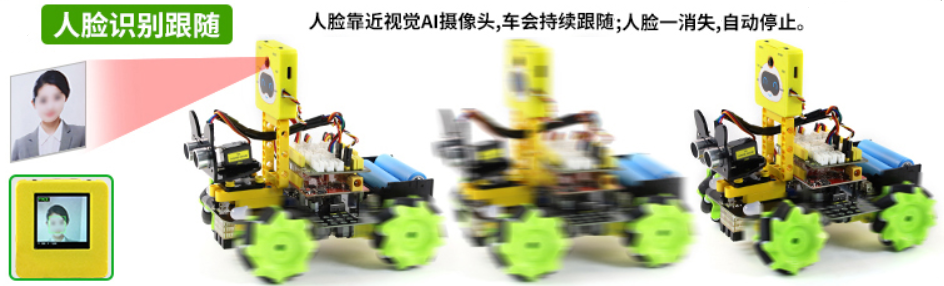
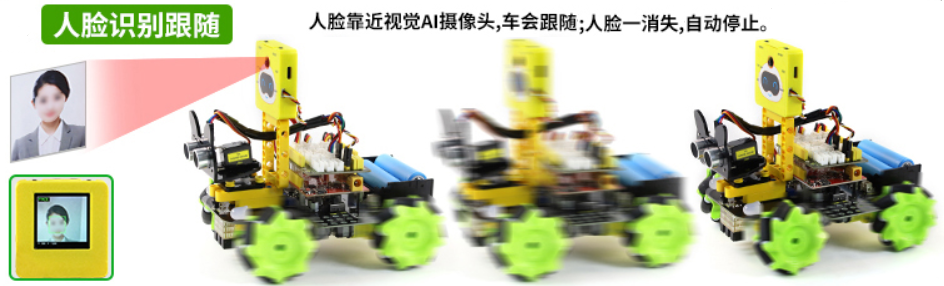
V00-2026-09-22

Changed region(s): [[0.553, 0.028, 0.8602, 0.1119]]

diff --git a/docs/4.视觉AI摄像头控制4WD麦克纳姆轮小车/4.4Mixly教程/2.二维码识别.md b/docs/4.视觉AI摄像头控制4WD麦克纳姆轮小车/4.4Mixly教程/2.二维码识别.md
@@ -47,7 +47,7 @@
 
 #### 2.6 代码说明
 
-![](../../media/P024.png)
+![](../../media/PP24.png)
 
 - 定义视觉AI摄像头模块的引脚TX接A4、RX接A5，设置波特率为9600；
 
@@ -59,27 +59,27 @@
 
 - 在无限循环中读取视觉AI摄像头串口数据。
 
-![](../../media/P025.png)
+![](../../media/PP25.png)
 
 - 通过判断如果识别为 "red" 二维码，那么4颗WS2812灯珠亮红色灯。
 
-![](../../media/P026.png)
+![](../../media/PP26.png)
 
 - 通过判断如果识别为 "green" 二维码，那么4颗WS2812灯珠亮绿色灯。
 
-![](../../media/P027.png)
+![](../../media/PP27.png)
 
 - 通过判断如果识别 "blue" 二维码，那么4颗WS2812灯珠亮蓝色灯。
 
-![](../../media/P028.png)
+![](../../media/PP28.png)
 
 - 通过判断如果识别为 "yellow" 二维码，那么4颗WS2812灯珠亮黄色灯。
 
-![](../../media/P029.png)
+![](../../media/PP29.png)
 
 - 通过判断如果识别为 "white" 二维码，那么4颗WS2812灯珠亮白色灯。
 
-![](../../media/P030.png)
+![](../../media/PP30.png)
 
 - 通过判断如果识别为 "black" 二维码，那么4颗WS2812灯珠亮不亮。
 

diff --git a/docs/4.视觉AI摄像头控制4WD麦克纳姆轮小车/4.4Mixly教程/4.人脸跟随车.md b/docs/4.视觉AI摄像头控制4WD麦克纳姆轮小车/4.4Mixly教程/4.人脸跟随车.md
@@ -54,7 +54,7 @@
 
 ![](../../media/PP010.png)
 
-- 在无限循环中读取视觉串口数据，并且通过判断视觉AI摄像头是否检测到人脸。如果检测到了，那么小车一直跟着走；否则，小车停止不动。
+- 在无限循环中读取视觉串口数据，并且通过判断视觉AI摄像头是否检测到人脸。如果检测到了，那么小车会跟着走；否则，小车停止不动。
 
 
 #### 4.7 实验结果
@@ -63,6 +63,6 @@
 
 外接电源，将电机驱动板上的拨码开关拨到 “<span style="color: rgb(255, 76, 65);">ON</span>” 端，上电后。选择好正确的开发板板型（Arduino Uno）和 适当的串口端口（COMxx），然后单击![upload2](../../media/upload2.png)按钮上传代码至Arduino控制板。
 
-代码上传成功后，当识别到人脸时，智能小车一直跟着走，否则小车停止不动。
+代码上传成功后，当识别到人脸时，智能小车会跟随，否则小车停止不动。
 
 ![](../../media/AA4-1.png)

diff --git a/docs/4.视觉AI摄像头控制4WD麦克纳姆轮小车/4.3Kidsblock教程/4.人脸跟随车.md b/docs/4.视觉AI摄像头控制4WD麦克纳姆轮小车/4.3Kidsblock教程/4.人脸跟随车.md
@@ -54,7 +54,7 @@
 
 ![](../../media/PP10.png)
 
-- 在无限循环中读取视觉串口数据，并且通过判断视觉AI摄像头是否检测到人脸。如果检测到了，那么小车一直跟着走；否则，小车停止不动。
+- 在无限循环中读取视觉串口数据，并且通过判断视觉AI摄像头是否检测到人脸。如果检测到了，那么小车会跟着走；否则，小车停止不动。
 
 #### 4.7 实验结果
 
@@ -62,6 +62,6 @@
 
 外接电源，将电机驱动板上的拨码开关拨到 “<span style="color: rgb(255, 76, 65);">ON</span>” 端，上电后。选择好正确的设备（Mecanum Robot）和 适当的串口端口（COMxx），然后单击![upload](../../media/upload.png)按钮上传代码至Arduino控制板。
 
-代码上传成功后，当识别到人脸时，智能小车一直跟着走，否则小车停止不动。
+代码上传成功后，当识别到人脸时，智能小车会跟随，否则小车停止不动。
 
 ![](../../media/AA4-1.png)

diff --git a/docs/4.视觉AI摄像头控制4WD麦克纳姆轮小车/4.2Arduino教程/0.视觉AI摄像头Arduino资料下载.md b/docs/4.视觉AI摄像头控制4WD麦克纳姆轮小车/4.2Arduino教程/0.视觉AI摄像头Arduino资料下载.md
@@ -1,6 +1,6 @@
 ### <span style="color: rgb(255, 76, 65);">视觉AI摄像头控制Arduino教程资料下载</span>
 
-请先下载视觉AI摄像头控制的Arduino教程所需资料（包含：示例代码，库文件 等）：[视觉AI摄像头Arduino资料](./视觉AI摄像头Arduino资料.7z)
+请先下载视觉AI摄像头控制的Arduino教程所需资料（包含：示例代码，库文件 等）：[视觉AI摄像头控制Arduino资料](./视觉AI摄像头控制Arduino资料.7z)
 
 
 

diff --git a/docs/4.视觉AI摄像头控制4WD麦克纳姆轮小车/4.4Mixly教程/0.视觉AI摄像头Mixly资料下载.md b/docs/4.视觉AI摄像头控制4WD麦克纳姆轮小车/4.4Mixly教程/0.视觉AI摄像头Mixly资料下载.md
@@ -1,6 +1,6 @@
 ### <span style="color: rgb(255, 76, 65);">视觉AI摄像头控制Mixly教程资料下载</span>
 
-请先下载视觉AI摄像头控制的Mixly教程所需资料（包含：示例代码，库文件 等）：[视觉AI摄像头Mixly教程资料](./视觉AI摄像头控制Mixly资料.7z)
+请先下载视觉AI摄像头控制的Mixly教程所需资料（包含：示例代码，库文件 等）：[视觉AI摄像头控制Mixly资料](./视觉AI摄像头控制Mixly资料.7z)
 
 
 

diff --git a/docs/4.视觉AI摄像头控制4WD麦克纳姆轮小车/4.3Kidsblock教程/0.视觉AI摄像头Kidsblock资料下载.md b/docs/4.视觉AI摄像头控制4WD麦克纳姆轮小车/4.3Kidsblock教程/0.视觉AI摄像头Kidsblock资料下载.md
@@ -1,6 +1,6 @@
 ### <span style="color: rgb(255, 76, 65);">视觉AI摄像头控制Kidsblock教程资料下载</span>
 
-请先下载视觉AI摄像头控制的Kidsblock教程所需资料（包含：示例代码 等）：[视觉AI摄像头Kidsblock资料](./视觉AI摄像头Kidsblock资料.7z)
+请先下载视觉AI摄像头控制的Kidsblock教程所需资料（包含：示例代码 等）：[视觉AI摄像头控制Kidsblock资料](./视觉AI摄像头控制Kidsblock资料.7z)
 
 
 

diff --git a/docs/3.语音控制4WD麦克纳姆轮小车/3.2Arduino教程/0.语音Arduino资料下载.md b/docs/3.语音控制4WD麦克纳姆轮小车/3.2Arduino教程/0.语音Arduino资料下载.md
@@ -1,6 +1,6 @@
 ### <span style="color: rgb(255, 76, 65);">语音控制Arduino教程资料下载</span>
 
-请先下载语音控制的Arduino教程所需资料（包含：示例代码，库文件 等）：[语音Arduino资料](./语音Arduino资料.7z)
+请先下载语音控制的Arduino教程所需资料（包含：示例代码，库文件 等）：[语音控制Arduino资料](./语音控制Arduino资料.7z)
 
 
 

diff --git a/docs/3.语音控制4WD麦克纳姆轮小车/3.3Kidsblock教程/0.语音Kidsblock资料下载.md b/docs/3.语音控制4WD麦克纳姆轮小车/3.3Kidsblock教程/0.语音Kidsblock资料下载.md
@@ -1,6 +1,6 @@
 ### <span style="color: rgb(255, 76, 65);">语音控制Kidsblock教程资料下载</span>
 
-请先下载语音控制的Kidsblock教程所需资料（包含：示例代码 等）：[语音Kidsblock资料](./语音Kidsblock资料.7z)
+请先下载语音控制的Kidsblock教程所需资料（包含：示例代码 等）：[语音控制Kidsblock资料](./语音控制Kidsblock资料.7z)
 
 
 

diff --git a/docs/3.语音控制4WD麦克纳姆轮小车/3.4Mixly教程/0.语音Mixly资料下载.md b/docs/3.语音控制4WD麦克纳姆轮小车/3.4Mixly教程/0.语音Mixly资料下载.md
@@ -1,6 +1,6 @@
 ### <span style="color: rgb(255, 76, 65);">语音控制Mixly教程资料下载</span>
 
-请先下载语音控制的Mixly教程所需资料（包含：示例代码，库文件 等）：[语音Mixly资料](./语音Mixly资料.7z)
+请先下载语音控制的Mixly教程所需资料（包含：示例代码，库文件 等）：[语音控制Mixly资料](./语音控制Mixly资料.7z)
 
 
 
